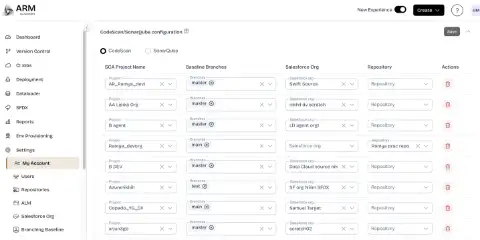
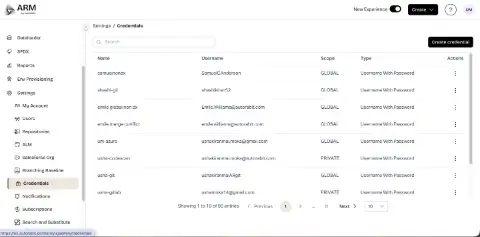
GITBOOK-5090: change request with no subject merged in GitBook

diff --git a/product-guides/arm-1/registration/version-control-repository/azure.md b/product-guides/arm-1/registration/version-control-repository/azure.md
@@ -8,7 +8,7 @@ Before registering AzureDevOps Repository with ARM, you must check off some of t
 
 1.  Ensure you enable the GIT plugin under Plugins in the My Account section to use GIT for version control.<br>
 
-    <figure><img src="../../../../.gitbook/assets/image (2013).png" alt=""><figcaption></figcaption></figure>
+    ![](../../../../.gitbook/assets/unknown.webp)
 2. You must have an Azure account. Once you have an Azure account, you can create a new repository or use an existing one.
 3. You must have permission to register a repository.
 4. Store your Azure credentials in ARM.
@@ -18,12 +18,12 @@ Before registering AzureDevOps Repository with ARM, you must check off some of t
 1. Log in to your ARM account.
 2.  Hover your mouse over the Admin module and click on the Credentials tab.<br>
 
-    <figure><img src="../../../../.gitbook/assets/image (2014).png" alt=""><figcaption></figcaption></figure>
+    ![](<../../../../.gitbook/assets/unknown (1).webp>)
 3. Next, click on Create Credential from the right navigation bar.
 4. On the next pop-up screen, give a Credential name.
 5.  Choose the Credential Type as Username with Password.<br>
 
-    <figure><img src="../../../../.gitbook/assets/image (2015).png" alt="" width="563"><figcaption></figcaption></figure>
+    ![](<../../../../.gitbook/assets/unknown (4).webp>)
 6. Enter your Azure Username and API Token (in the Password field), and we will store this encrypted.
 7. Click Save.
 
@@ -32,13 +32,13 @@ Before registering AzureDevOps Repository with ARM, you must check off some of t
 1. Log in to your ARM account.
 2.  Hover your mouse over the Admin module and click on VC Repo's.<br>
 
-    <figure><img src="../../../../.gitbook/assets/image (2016).png" alt="" width="563"><figcaption></figcaption></figure>
+    ![](<../../../../.gitbook/assets/unknown (5).webp>)
 3.  Click on Register Repository.<br>
 
-    <figure><img src="../../../../.gitbook/assets/image (2017).png" alt=""><figcaption></figcaption></figure>
+    ![](<../../../../.gitbook/assets/unknown (6).webp>)
 4.  Select the Version Control System as GIT on the Register Repository page.<br>
 
-    <figure><img src="../../../../.gitbook/assets/image (2018).png" alt=""><figcaption></figcaption></figure>
+    ![](<../../../../.gitbook/assets/unknown (7).webp>)
 5. Enter the name of the repository to display it locally.
 6. Paste the Repository URL that Azure provides you.
 7. Choose the correct user's Credentials from the list. To create new credentials, click on the “+”.

diff --git a/product-guides/arm-1/getting-started-1/arm-administration/manage-users-account-settings/README.md b/product-guides/arm-1/getting-started-1/arm-administration/manage-users-account-settings/README.md
@@ -113,11 +113,11 @@ Developers must select the appropriate baseline branch to compare against. If th
 Admins can configure the default baseline branches for CodeScan and SonarQube SCA plugins in the **`My Account`** section. This resolves the confusion developers previously faced when selecting baseline branches for SCA and. It also helps Admins control the default baseline branches.\
 <br>
 
-![](../../../../../.gitbook/assets/unknown.webp)
-
-![](<../../../../../.gitbook/assets/unknown (1).webp>)
-
 ![](<../../../../../.gitbook/assets/unknown (2).webp>)
+
+![](<../../../../../.gitbook/assets/unknown (1) (1).webp>)
+
+![](<../../../../../.gitbook/assets/unknown (2) (1).webp>)
 
 **Configure the baseline branches**
 
